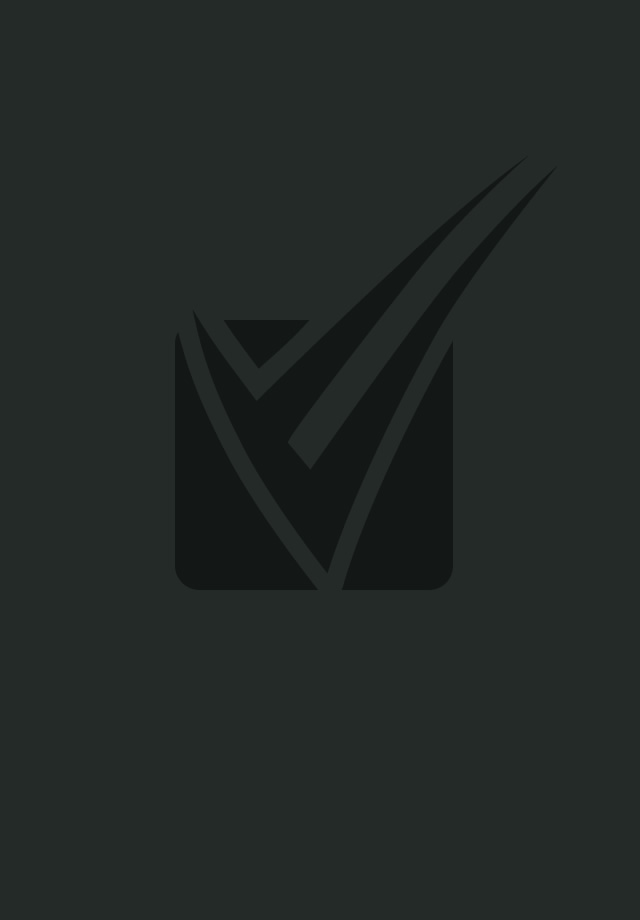
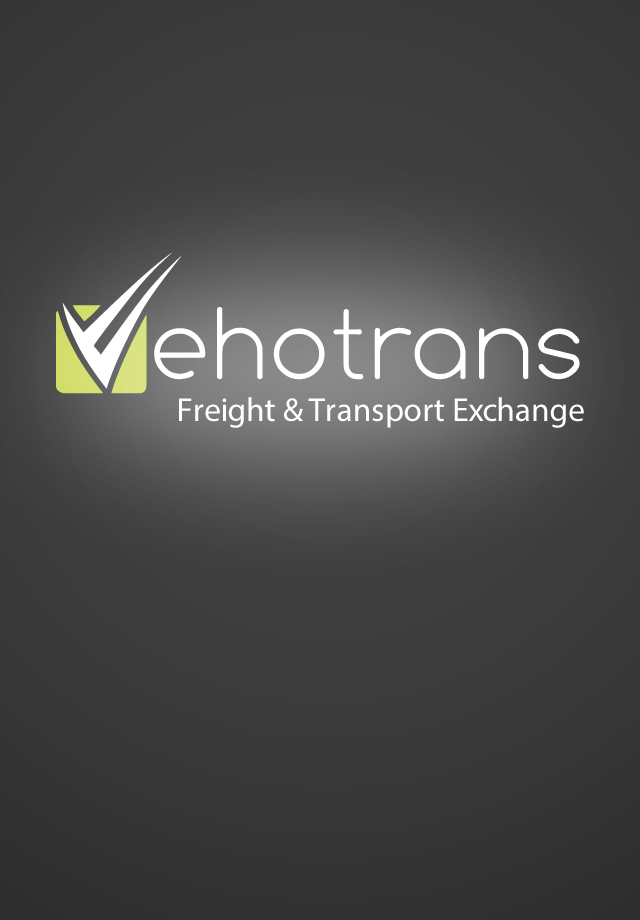
new iphone splashscreens

diff --git a/index.html b/index.html
@@ -1252,7 +1252,7 @@
 						       //map.panTo(latlng);
 					       }
 					}
-					navigator.geolocation.getCurrentPosition(self.success, onPODGeoError, {maximumAge: 75000});
+					navigator.geolocation.getCurrentPosition(self.success, onPODGeoError, {maximumAge:75000,timeout:5000,enableHighAccuracy:true});
 			       }
 			       
 		       });
